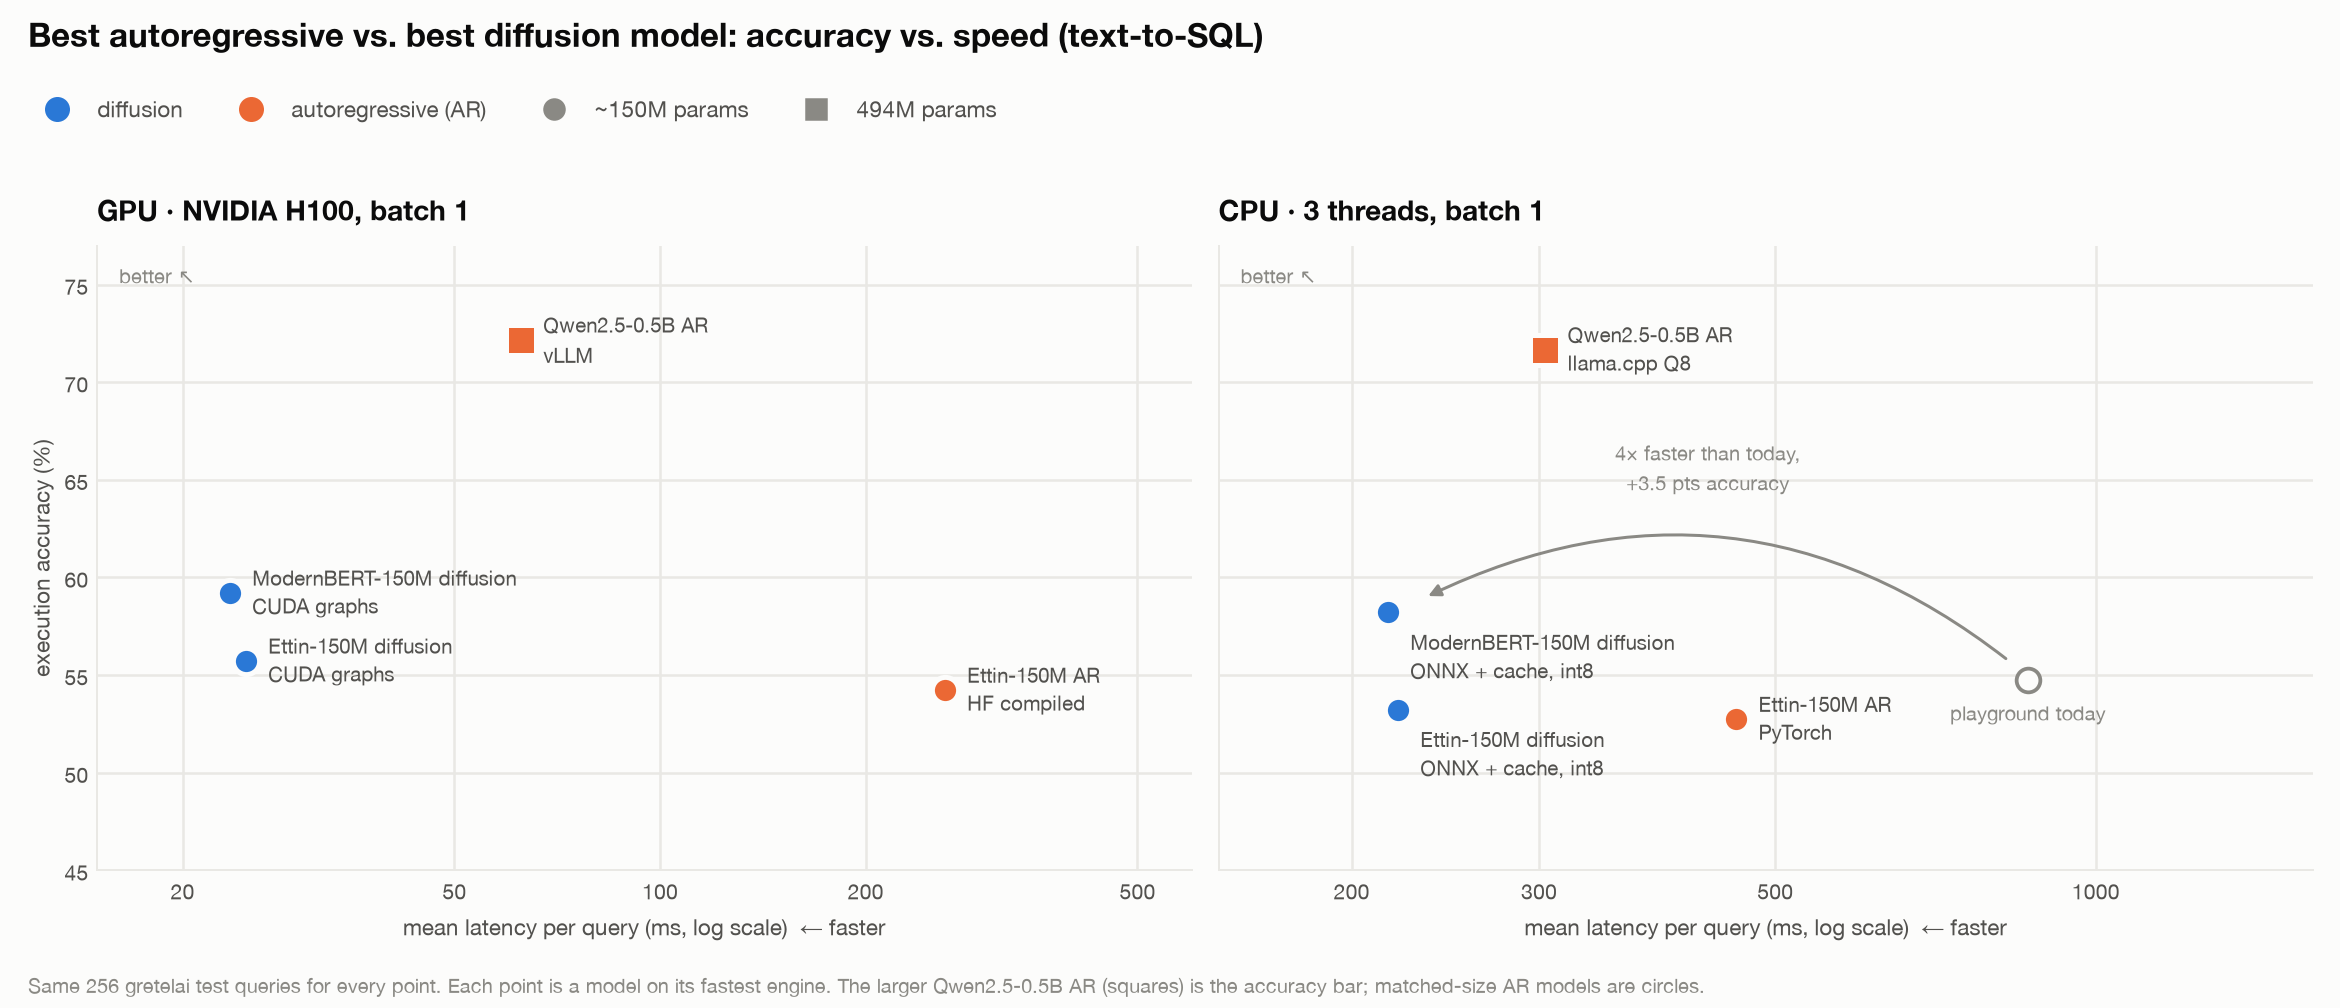
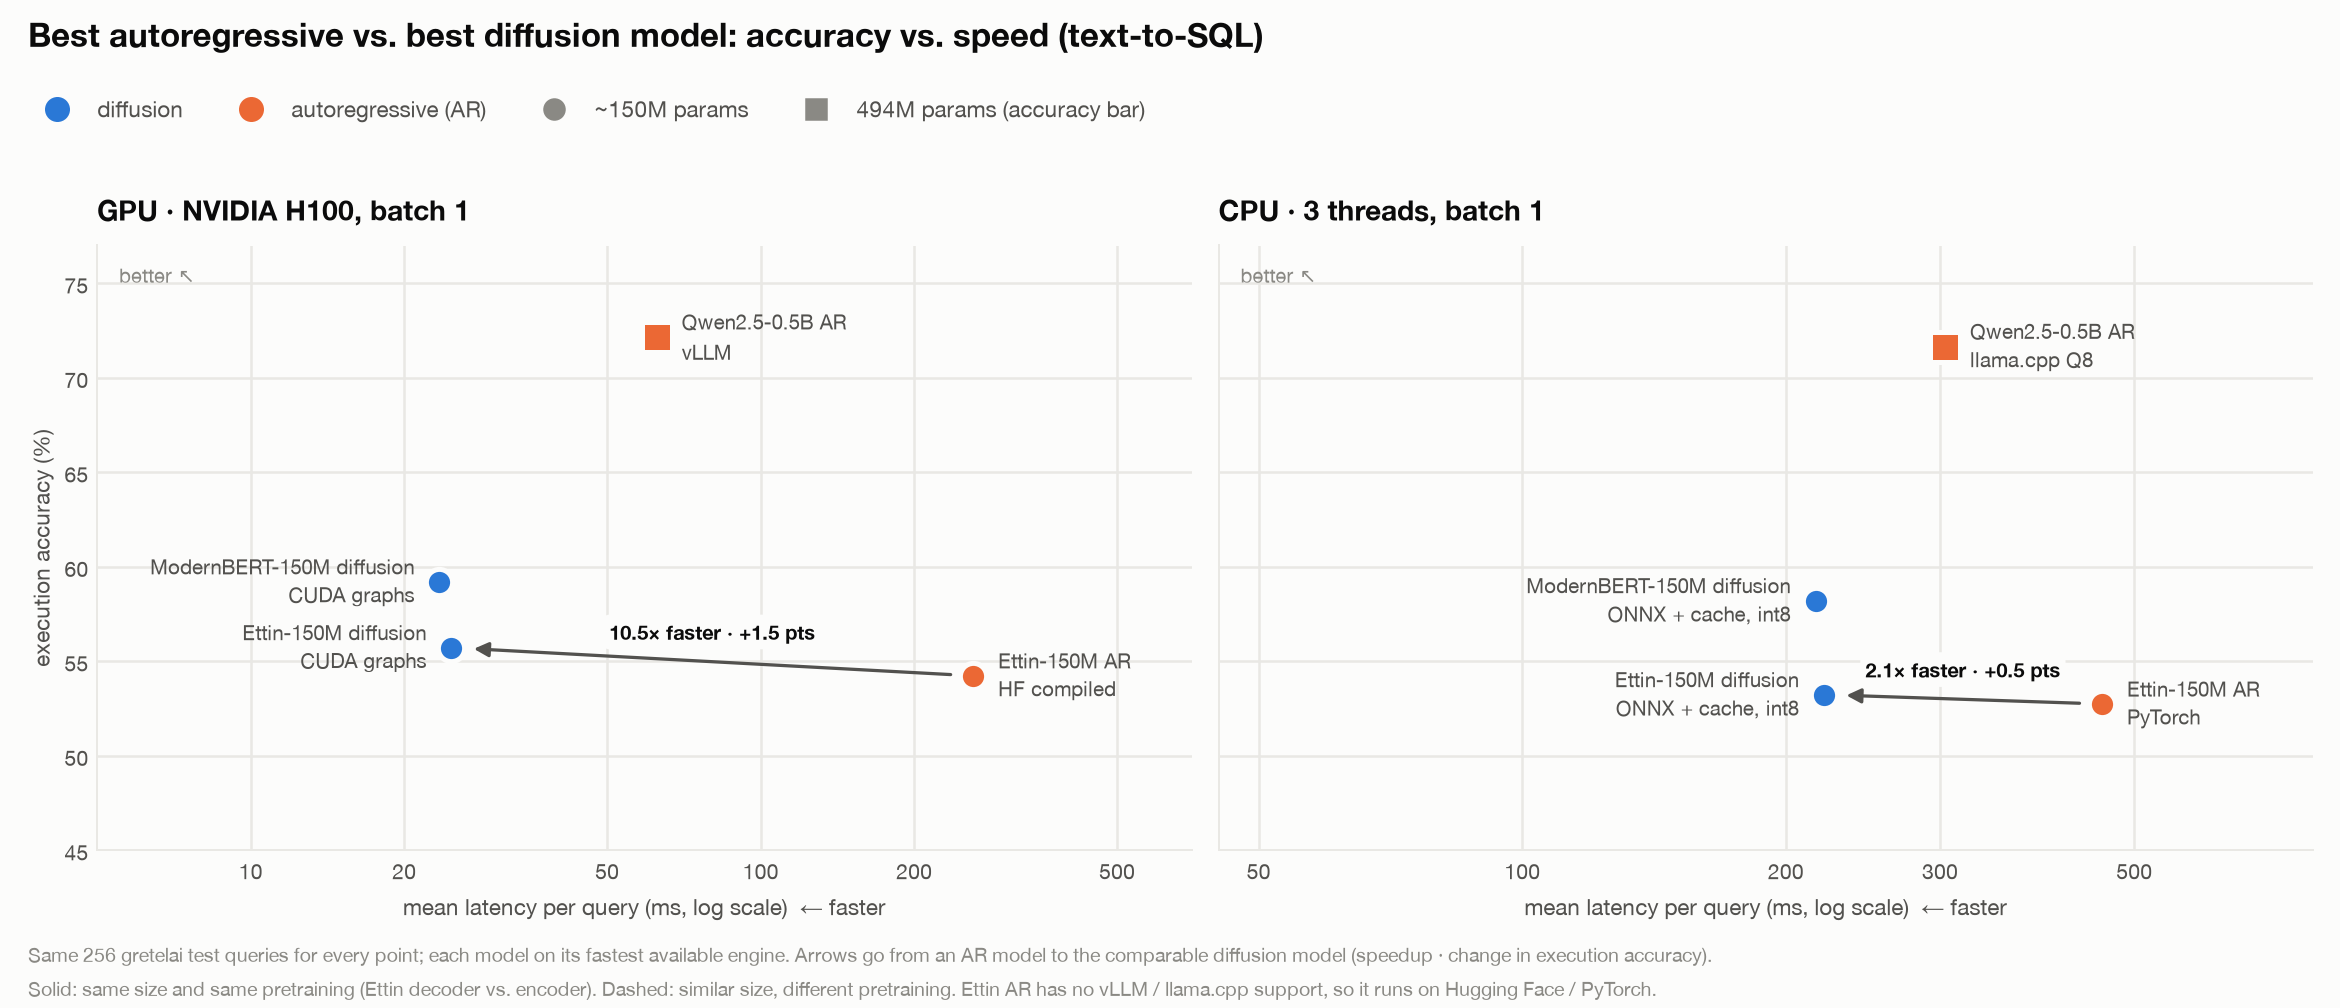
chart: AR-to-diffusion comparison arrows, drop playground point
Claude-Session: https://claude.ai/code/session_01G6Bm8s1uyizXtz9t5ZCZAw

diff --git a/experiments/2026-10-12_gpu-session/make_headline_chart.py b/experiments/2026-10-12_gpu-session/make_headline_chart.py
@@ -17,24 +17,28 @@ HERE = os.path.dirname(os.path.abspath(__file__))
 SURFACE, INK, INK_2, MUTED, GRID = "#fcfcfb", "#0b0b0b", "#52514e", "#8a8984", "#e9e8e4"
 COLOR = {"diffusion": "#2a78d6", "ar": "#eb6834"}
 
-# (label, arm, size, summary) -- the best configuration per model on each hardware target
+# (label, arm, size, summary[, (dx, dy, va, ha)]) -- the best configuration per model on each hardware target
+LEFT = (-10, 0, "center", "right")
 GPU = [
     ("Qwen2.5-0.5B AR\nvLLM", "ar", "494M", "sql-ar-qwen25-coder-0.5b-ar-vllm"),
     ("Ettin-150M AR\nHF compiled", "ar", "150M", "ettin150-ar-10ep-bf16-compiled"),
     ("SmolLM2-135M AR\nvLLM", "ar", "150M", "smollm135-ar-vllm"),
-    ("ModernBERT-150M diffusion\nCUDA graphs", "diffusion", "150M", "modernbert-isolated-distilled-bf16-cudagraphs"),
-    ("Ettin-150M diffusion\nCUDA graphs", "diffusion", "150M", "ettin150-diffusion-iso-10ep-distilled-bf16-cudagraphs"),
+    ("ModernBERT-150M diffusion\nCUDA graphs", "diffusion", "150M", "modernbert-isolated-distilled-bf16-cudagraphs", LEFT),
+    ("Ettin-150M diffusion\nCUDA graphs", "diffusion", "150M", "ettin150-diffusion-iso-10ep-distilled-bf16-cudagraphs", LEFT),
 ]
 CPU = [
     ("Qwen2.5-0.5B AR\nllama.cpp Q8", "ar", "494M", "qwen25-ar-llamacpp-q8_0"),
     ("Ettin-150M AR\nPyTorch", "ar", "150M", "ar-10ep-torch"),
     ("SmolLM2-135M AR\nllama.cpp Q8", "ar", "150M", "smollm135-ar-llamacpp-q8_0"),
-    ("ModernBERT-150M diffusion\nONNX + cache, int8", "diffusion", "150M", "modernbert-isolated-distilled-onnx-cached-int8",
-     (9, -6, "top")),
-    ("Ettin-150M diffusion\nONNX + cache, int8", "diffusion", "150M", "ettin150-iso-10ep-distilled-onnx-cached-int8",
-     (9, -6, "top")),
+    ("ModernBERT-150M diffusion\nONNX + cache, int8", "diffusion", "150M", "modernbert-isolated-distilled-onnx-cached-int8", LEFT),
+    ("Ettin-150M diffusion\nONNX + cache, int8", "diffusion", "150M", "ettin150-iso-10ep-distilled-onnx-cached-int8", LEFT),
 ]
-CPU_BEFORE = ("playground today", "diffusion-onnx-w128-s16-c0.9")
+# AR -> diffusion arrows between comparable checkpoints: solid = same size *and* same pretraining (Ettin pair),
+# dashed = similar size, different pretraining.
+GPU_PAIRS = [("ettin150-ar-10ep-bf16-compiled", "ettin150-diffusion-iso-10ep-distilled-bf16-cudagraphs", "solid"),
+             ("smollm135-ar-vllm", "modernbert-isolated-distilled-bf16-cudagraphs", "dashed")]
+CPU_PAIRS = [("ar-10ep-torch", "ettin150-iso-10ep-distilled-onnx-cached-int8", "solid"),
+             ("smollm135-ar-llamacpp-q8_0", "modernbert-isolated-distilled-onnx-cached-int8", "dashed")]
 
 
 def load(kind, name):
@@ -42,32 +46,32 @@ def load(kind, name):
     return json.load(open(path)) if os.path.exists(path) else None
 
 
-def panel(ax, kind, rows, title, ticks, before=None):
+def panel(ax, kind, rows, title, ticks, pairs):
     ax.set_facecolor(SURFACE)
     for row in rows:
         label, arm, size, name = row[:4]
-        dx, dy, va = row[4] if len(row) > 4 else (9, 0, "center")
+        dx, dy, va, ha = row[4] if len(row) > 4 else (10, 0, "center", "left")
         s = load(kind, name)
         if s is None:
             continue
         x, y = s["lat_mean_ms"], s["exec"] * 100
         ax.scatter(x, y, s=150 if size == "494M" else 110, marker="s" if size == "494M" else "o",
                    color=COLOR[arm], edgecolor=SURFACE, linewidth=2, zorder=4)
-        ax.annotate(label, (x, y), xytext=(dx, dy), textcoords="offset points", va=va, fontsize=8.2,
+        ax.annotate(label, (x, y), xytext=(dx, dy), textcoords="offset points", va=va, ha=ha, fontsize=8.2,
                     color=INK_2, linespacing=1.25)
-    if before is not None:
-        b = load(kind, before[1])
-        best = load(kind, rows[3][3])
-        ax.scatter(b["lat_mean_ms"], b["exec"] * 100, s=90, facecolor=SURFACE, edgecolor=MUTED, linewidth=1.5, zorder=3)
-        ax.annotate(before[0], (b["lat_mean_ms"], b["exec"] * 100), xytext=(0, -16), textcoords="offset points",
-                    ha="center", fontsize=8, color=MUTED)
-        ax.annotate("", xy=(best["lat_mean_ms"] * 1.06, best["exec"] * 100 + 0.5),
-                    xytext=(b["lat_mean_ms"] * 0.97, b["exec"] * 100 + 0.8),
-                    arrowprops=dict(arrowstyle="-|>", color=MUTED, lw=1.2, shrinkA=4, shrinkB=6,
-                                    connectionstyle="arc3,rad=0.32"))
-        ax.text((b["lat_mean_ms"] * best["lat_mean_ms"]) ** 0.5, (b["exec"] + best["exec"]) * 50 + 8.0,
-                f"{b['lat_mean_ms'] / best['lat_mean_ms']:.0f}× faster than today,\n+{(best['exec'] - b['exec']) * 100:.1f} pts accuracy",
-                ha="center", fontsize=8, color=MUTED, linespacing=1.3)
+    for ar_name, diff_name, style in pairs:
+        a, d = load(kind, ar_name), load(kind, diff_name)
+        if a is None or d is None:
+            continue
+        (xa, ya), (xd, yd) = (a["lat_mean_ms"], a["exec"] * 100), (d["lat_mean_ms"], d["exec"] * 100)
+        ax.annotate("", xy=(xd, yd), xytext=(xa, ya),
+                    arrowprops=dict(arrowstyle="-|>", color=INK_2, lw=1.3, linestyle=style, shrinkA=9, shrinkB=9,
+                                    mutation_scale=12))
+        speed, delta = xa / xd, yd - ya
+        ax.annotate(f"{speed:.1f}× faster · {delta:+.1f} pts", ((xa * xd) ** 0.5, (ya + yd) / 2), xytext=(0, 7),
+                    textcoords="offset points", ha="center", va="bottom", fontsize=8.2, color=INK,
+                    fontweight="bold" if style == "solid" else "normal",
+                    bbox=dict(boxstyle="round,pad=0.25", facecolor=SURFACE, edgecolor="none"))
     ax.set_xscale("log")
     ax.set_title(title, loc="left", fontsize=11, color=INK, pad=10, fontweight="bold")
     ax.set_xlabel("mean latency per query (ms, log scale)  ← faster", fontsize=9, color=INK_2)
@@ -86,10 +90,10 @@ def panel(ax, kind, rows, title, ticks, before=None):
 def main():
     plt.rcParams["font.family"] = ["Helvetica Neue", "Helvetica", "Arial", "DejaVu Sans"]
     fig, axes = plt.subplots(1, 2, figsize=(13, 5.6), facecolor=SURFACE, sharey=True)
-    panel(axes[0], "gpu", GPU, "GPU · NVIDIA H100, batch 1", [20, 50, 100, 200, 500])
-    panel(axes[1], "cpu", CPU, "CPU · 3 threads, batch 1", [200, 300, 500, 1000], before=CPU_BEFORE)
-    axes[0].set_xlim(15, 600)
-    axes[1].set_xlim(150, 1600)
+    panel(axes[0], "gpu", GPU, "GPU · NVIDIA H100, batch 1", [10, 20, 50, 100, 200, 500], GPU_PAIRS)
+    panel(axes[1], "cpu", CPU, "CPU · 3 threads, batch 1", [50, 100, 200, 300, 500], CPU_PAIRS)
+    axes[0].set_xlim(5, 700)
+    axes[1].set_xlim(45, 800)
     axes[0].set_ylim(45, 77)
     axes[0].set_ylabel("execution accuracy (%)", fontsize=9, color=INK_2)
     for ax in axes:
@@ -98,16 +102,18 @@ def main():
         plt.Line2D([], [], marker="o", linestyle="", markersize=9, color=COLOR["diffusion"], label="diffusion"),
         plt.Line2D([], [], marker="o", linestyle="", markersize=9, color=COLOR["ar"], label="autoregressive (AR)"),
         plt.Line2D([], [], marker="o", linestyle="", markersize=8, color=MUTED, label="~150M params"),
-        plt.Line2D([], [], marker="s", linestyle="", markersize=8, color=MUTED, label="494M params"),
+        plt.Line2D([], [], marker="s", linestyle="", markersize=8, color=MUTED, label="494M params (accuracy bar)"),
     ]
     fig.legend(handles=handles, loc="upper left", ncol=4, frameon=False, fontsize=9, labelcolor=INK_2,
                bbox_to_anchor=(0.006, 0.925))
     fig.suptitle("Best autoregressive vs. best diffusion model: accuracy vs. speed (text-to-SQL)",
                  x=0.012, ha="left", fontsize=13, color=INK, fontweight="bold", y=0.985)
-    fig.text(0.012, 0.015, "Same 256 gretelai test queries for every point. Each point is a model on its fastest "
-             "engine. The larger Qwen2.5-0.5B AR (squares) is the accuracy bar; matched-size AR models are circles.",
-             fontsize=8, color=MUTED)
-    fig.tight_layout(rect=(0, 0.04, 1, 0.9))
+    fig.text(0.012, 0.012, "Same 256 gretelai test queries for every point; each model on its fastest available engine. "
+             "Arrows go from an AR model to the comparable diffusion model (speedup · change in execution accuracy).\n"
+             "Solid: same size and same pretraining (Ettin decoder vs. encoder). Dashed: similar size, different "
+             "pretraining. Ettin AR has no vLLM / llama.cpp support, so it runs on Hugging Face / PyTorch.",
+             fontsize=7.8, color=MUTED, linespacing=1.5)
+    fig.tight_layout(rect=(0, 0.06, 1, 0.9))
     out = os.path.join(HERE, "plots", "headline.png")
     fig.savefig(out, dpi=180, facecolor=SURFACE)
     print(out)
